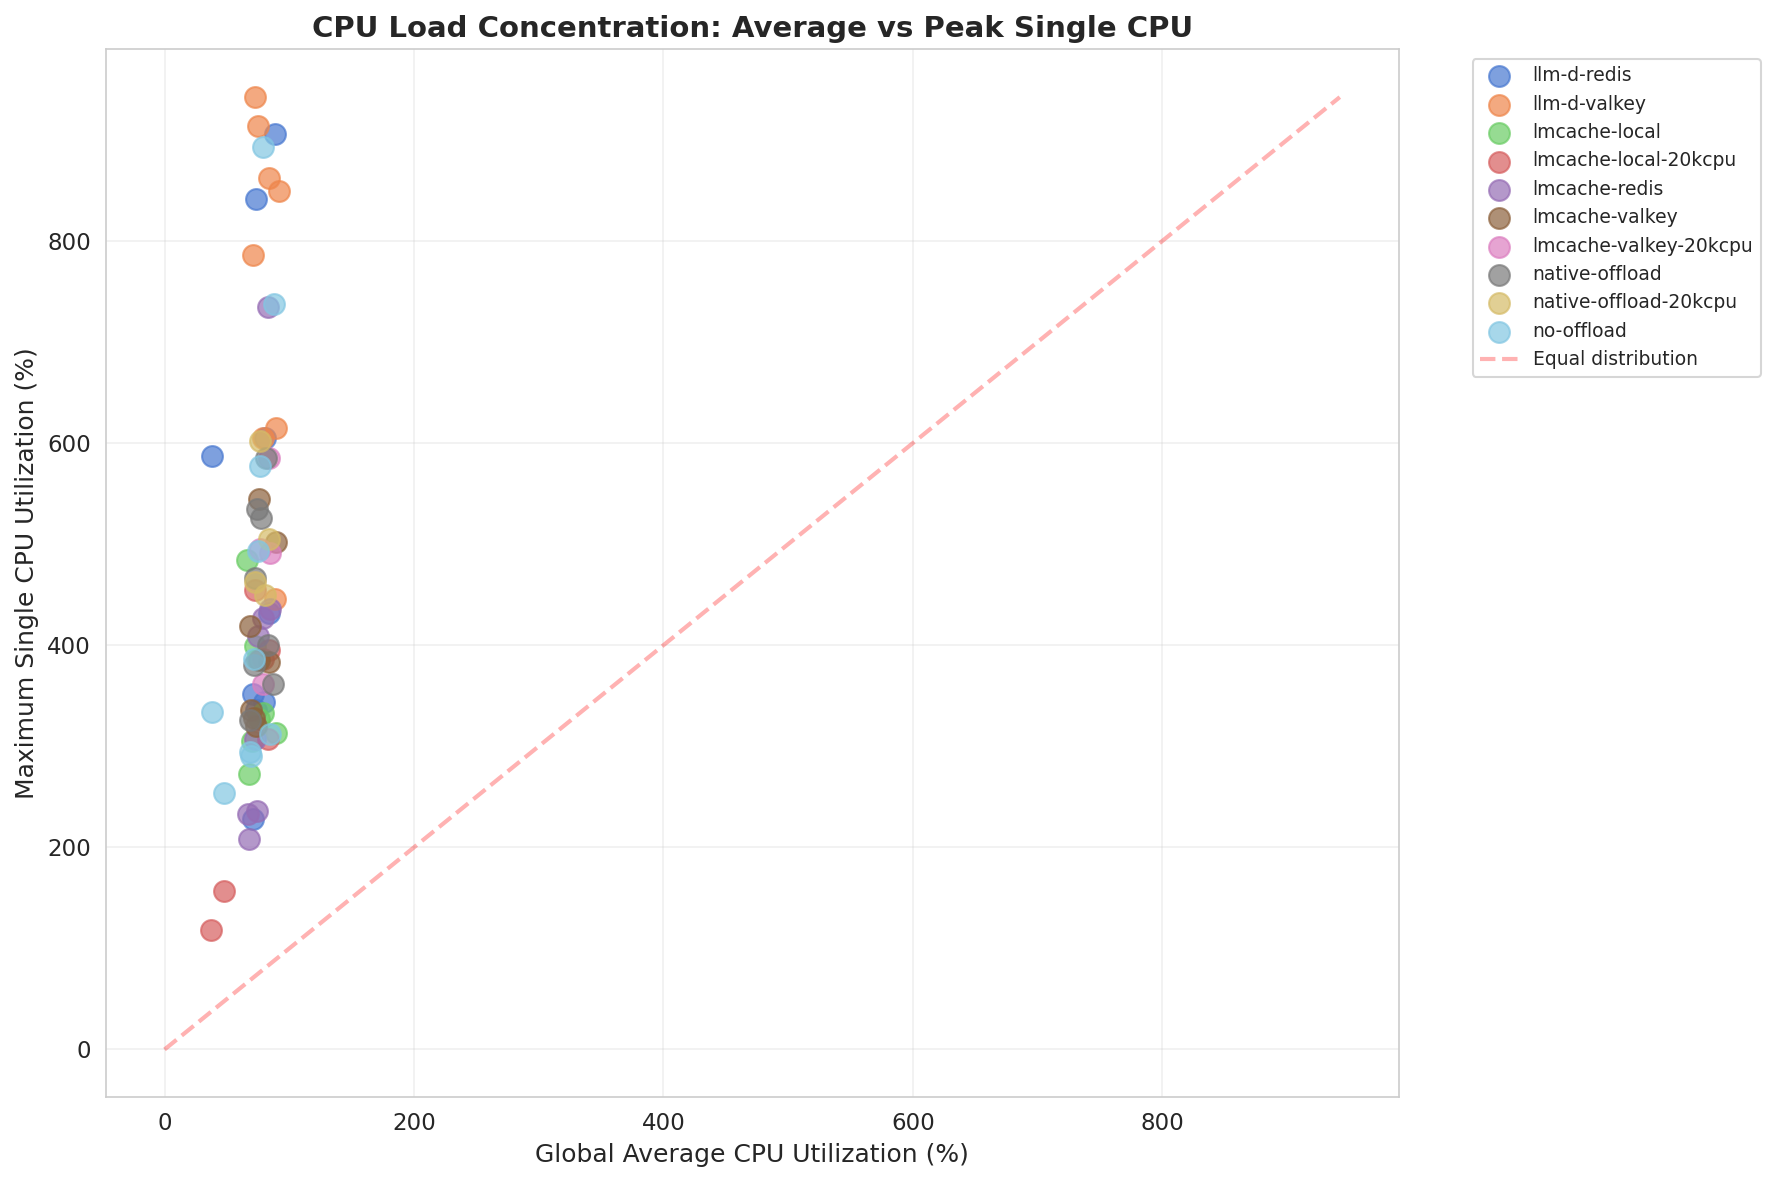
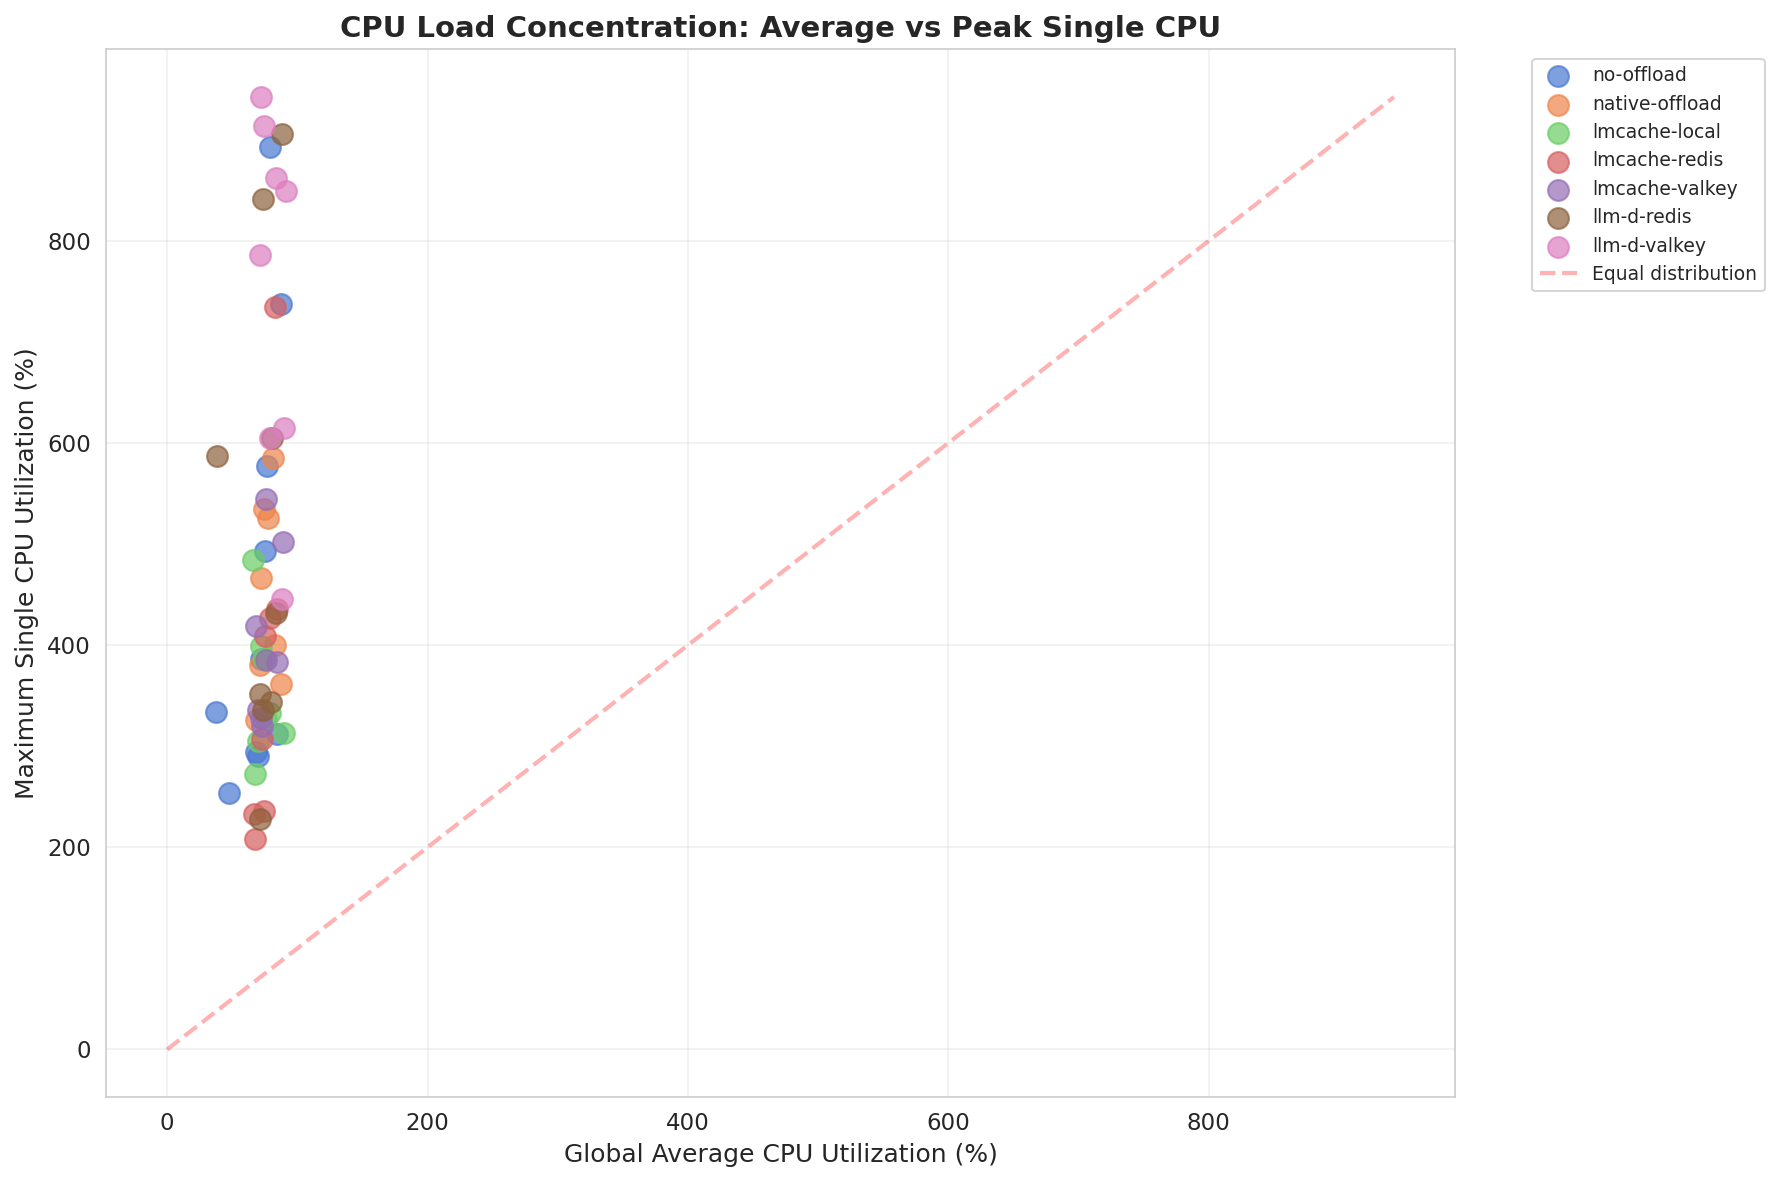
Add CPU heatmap, update the summary section

diff --git a/llm-d-kvcache-offload-eval/scripts/create-pcp-visualizations.py b/llm-d-kvcache-offload-eval/scripts/create-pcp-visualizations.py
@@ -20,6 +20,17 @@ ANALYSIS_DIR = Path('analysis')
 # Model ordering
 MODEL_ORDER = ['Qwen3-0.6B', 'Qwen3-8B', 'Qwen3-14B', 'Qwen3-32B-AWQ']
 
+# Scenario ordering (consistent with comprehensive-analysis.py)
+SCENARIO_ORDER = [
+    'no-offload',
+    'native-offload',
+    'lmcache-local',
+    'lmcache-redis',
+    'lmcache-valkey',
+    'llm-d-redis',
+    'llm-d-valkey'
+]
+
 def load_data():
     """Load PCP metrics and GuideLLM complete metrics."""
     pcp = pd.read_csv(ANALYSIS_DIR / 'pcp_metrics_peak.csv')
@@ -43,9 +54,9 @@ def plot_gpu_util_vs_throughput(df):
     """Plot GPU utilization vs output token throughput."""
     fig, ax = plt.subplots(figsize=(12, 7))
 
-    # Group by scenario for coloring
-    scenarios = df['scenario'].unique()
-    colors = sns.color_palette("husl", len(scenarios))
+    # Use consistent scenario ordering
+    scenarios = [s for s in SCENARIO_ORDER if s in df['scenario'].values]
+    colors = sns.color_palette("muted", len(scenarios))
 
     for scenario, color in zip(scenarios, colors):
         scenario_df = df[df['scenario'] == scenario]
@@ -81,7 +92,8 @@ def plot_kv_cache_usage_by_scenario(df):
         aggfunc='mean'
     )
 
-    # Reorder columns by model order
+    # Reorder rows by scenario order and columns by model order
+    pivot = pivot.reindex([s for s in SCENARIO_ORDER if s in pivot.index])
     pivot = pivot[[col for col in MODEL_ORDER if col in pivot.columns]]
 
     # Plot with custom colors
@@ -111,7 +123,8 @@ def plot_memory_usage_comparison(df):
         aggfunc='mean'
     )
 
-    # Reorder columns by model order
+    # Reorder rows by scenario order and columns by model order
+    pivot = pivot.reindex([s for s in SCENARIO_ORDER if s in pivot.index])
     pivot = pivot[[col for col in MODEL_ORDER if col in pivot.columns]]
 
     # Plot with custom colors
@@ -141,7 +154,8 @@ def plot_request_queue_patterns(df):
         aggfunc='mean'
     )
 
-    # Reorder columns by model order
+    # Reorder rows by scenario order and columns by model order
+    pivot_running = pivot_running.reindex([s for s in SCENARIO_ORDER if s in pivot_running.index])
     pivot_running = pivot_running[[col for col in MODEL_ORDER if col in pivot_running.columns]]
 
     # Plot with custom colors
@@ -161,7 +175,8 @@ def plot_request_queue_patterns(df):
         aggfunc='mean'
     )
 
-    # Reorder columns by model order
+    # Reorder rows by scenario order and columns by model order
+    pivot_waiting = pivot_waiting.reindex([s for s in SCENARIO_ORDER if s in pivot_waiting.index])
     pivot_waiting = pivot_waiting[[col for col in MODEL_ORDER if col in pivot_waiting.columns]]
 
     # Plot with custom colors
@@ -193,7 +208,8 @@ def plot_prefix_cache_effectiveness(df):
         aggfunc='mean'
     )
 
-    # Reorder columns by model order
+    # Reorder rows by scenario order and columns by model order
+    pivot = pivot.reindex([s for s in SCENARIO_ORDER if s in pivot.index])
     pivot = pivot[[col for col in MODEL_ORDER if col in pivot.columns]]
 
     # Plot with custom colors

diff --git a/llm-d-kvcache-offload-eval/scripts/visualize-percpu-saturation.py b/llm-d-kvcache-offload-eval/scripts/visualize-percpu-saturation.py
@@ -17,6 +17,17 @@ plt.rcParams['font.size'] = 11
 
 ANALYSIS_DIR = Path('analysis')
 
+# Scenario ordering (consistent with comprehensive-analysis.py)
+SCENARIO_ORDER = [
+    'no-offload',
+    'native-offload',
+    'lmcache-local',
+    'lmcache-redis',
+    'lmcache-valkey',
+    'llm-d-redis',
+    'llm-d-valkey'
+]
+
 def load_data():
     """Load per-CPU analysis data."""
     return pd.read_csv(ANALYSIS_DIR / 'percpu_analysis.csv')
@@ -29,7 +40,10 @@ def plot_saturated_cpus_by_scenario(df):
     scenario_summary = df.groupby('scenario').agg({
         'saturated_cpus_user': 'mean',
         'global_mean_user': 'mean'
-    }).sort_values('saturated_cpus_user', ascending=False)
+    })
+
+    # Reorder by consistent scenario ordering
+    scenario_summary = scenario_summary.reindex([s for s in SCENARIO_ORDER if s in scenario_summary.index])
 
     x = np.arange(len(scenario_summary))
     width = 0.35
@@ -57,8 +71,8 @@ def plot_cpu_load_distribution(df):
     """Box plot showing CPU load distribution (std dev and range)."""
     fig, (ax1, ax2) = plt.subplots(1, 2, figsize=(16, 7))
 
-    # Group by scenario
-    scenario_order = df.groupby('scenario')['cpu_stdev'].mean().sort_values(ascending=False).index
+    # Use consistent scenario ordering
+    scenario_order = [s for s in SCENARIO_ORDER if s in df['scenario'].values]
 
     # Standard deviation
     data_stdev = [df[df['scenario'] == s]['cpu_stdev'].values for s in scenario_order]
@@ -95,17 +109,19 @@ def plot_avg_vs_max_cpu(df):
     """Scatter plot showing average CPU vs max CPU utilization."""
     fig, ax = plt.subplots(figsize=(12, 8))
 
-    # Group by scenario
-    scenarios = sorted(df['scenario'].unique())
+    # Use consistent scenario ordering
+    scenarios = [s for s in SCENARIO_ORDER if s in df['scenario'].values]
+    colors = sns.color_palette("muted", len(scenarios))
 
-    for scenario in scenarios:
+    for scenario, color in zip(scenarios, colors):
         scenario_df = df[df['scenario'] == scenario]
         ax.scatter(
             scenario_df['global_mean_user'],
             scenario_df['max_cpu_mean_user'],
             label=scenario,
             alpha=0.7,
-            s=100
+            s=100,
+            color=color
         )
 
     # Add diagonal reference line (where avg = max)
@@ -134,6 +150,9 @@ def plot_saturation_heatmap(df):
     metric_labels = ['Saturated CPUs', 'Max CPU %', 'Load Std Dev', 'Load Range']
 
     summary = df.groupby('scenario')[metrics].mean()
+
+    # Reorder by consistent scenario ordering
+    summary = summary.reindex([s for s in SCENARIO_ORDER if s in summary.index])
 
     # Normalize for heatmap (scale each metric to 0-1)
     summary_norm = summary.copy()

diff --git a/llm-d-kvcache-offload-eval/REPORT.md b/llm-d-kvcache-offload-eval/REPORT.md
@@ -2,25 +2,29 @@
 
 ## Summary
 
-This report presents a comprehensive performance evaluation of KV-cache management strategies in the llm-d inference serving system. Seven configurations were tested across four model sizes (Qwen3-0.6B, Qwen3-8B, Qwen3-14B, Qwen3-32B-AWQ) using high-concurrency workloads with tensor parallelism across 2x NVIDIA L40S GPUs.
+This report presents a comprehensive performance evaluation of KV-cache management strategies in the llm-d inference serving system. Seven configurations were tested across four model sizes (Qwen3-0.6B, Qwen3-8B, Qwen3-14B, Qwen3-32B-AWQ) using high-concurrency workloads with tensor parallelism across 2x NVIDIA L40S GPUs. Performance Co-Pilot (PCP) metrics provide system-level validation of throughput results.
 
 The evaluation addresses two areas:
 
 1. **llm-d EPP distributed KV-block indexing overhead**: Comparing baseline GPU-only operation against Redis and Valkey-backed distributed indexing for cache-aware request routing
 2. **CPU KV-cache offload strategies**: Comparing vLLM native offloading against LMCache (local CPU and distributed Redis/Valkey backends)
 
-**Findings:**
+**Primary Findings:**
 
 - **llm-d EPP distributed indexing achieves performance parity** with baseline (within ±2% for most models)
-- **14B model optimization**: The 14B model shows +10-13% throughput improvement with CPU offload (both native and LMCache), while all other models show degradation
-- **vLLM native offloading shows clear degradation** for small models (-29% to -36% for 0.6B/8B)
-- **LMCache distributed caching** performs competitively for the 14B model but shows degradation for other sizes
-- **Redis vs Valkey backends perform identically** across all configurations, providing deployment flexibility
-- **Model size impacts offload effectiveness**: Different models show significantly different responses to CPU offload strategies
+- **CPU memory capacity is the dominant factor** in offload effectiveness: 32B-AWQ model shifted from -12.7% degradation to +11.9% improvement when CPU blocks doubled from 10K to 20K
+- **Model size determines optimal configuration**: larger models (14B/32B-AWQ) benefit from CPU offload (+12-17% with adequate memory), while smaller models (0.6B/8B) show degradation
+- **vLLM native offloading underperforms LMCache** across all model sizes, showing -29% to -36% degradation for small models
 
-The llm-d EPP distributed KV-block indexing demonstrates negligible overhead for cache-aware request routing in multi-pod deployments. However, CPU offload strategies show highly model-dependent performance characteristics, with the 14B model representing an optimal size where offload benefits outweigh overhead.
+**System-Level Insights:**
 
-**Important**: These results are specific to the test hardware configuration (2x NVIDIA L40S GPUs, 32 vCPUs, limited CPU memory for offload). Different GPU types, CPU memory capacity, and memory bandwidth characteristics will impact offload effectiveness. The 14B model's performance improvement with CPU offload is expected to also occur with different model sizes and alternative hardware configurations.
+- **Per-CPU analysis reveals hidden saturation**: Despite 4-10% average CPU utilization, 9-14 individual CPUs averaged >80% saturation across scenarios, with severe load hotspotting
+- **CPU offload increases CPU saturation**: Offload scenarios show 11-14 saturated CPUs vs 9.5 for baseline, consistent with CPU-GPU transfer overhead
+- **Prefix cache effectiveness varies widely**: Hit rates range from 2-61% depending on concurrency and model size, with effectiveness increasing substantially at higher concurrency
+
+The llm-d EPP distributed KV-block indexing demonstrates negligible overhead for cache-aware request routing in multi-pod deployments. CPU offload strategies show highly model-dependent and memory-capacity-dependent performance characteristics, with proper CPU memory provisioning being critical for realizing offload benefits.
+
+**Note**: These results are specific to the test hardware configuration (2x NVIDIA L40S GPUs, 48 vCPUs, variable CPU memory for offload). Different GPU types, CPU memory capacity, and memory bandwidth characteristics will significantly impact offload effectiveness. The optimal model size for CPU offload is expected to shift with alternative hardware configurations.
 
 ---
 
@@ -322,6 +326,9 @@ All scenarios show individual CPUs hitting >95% utilization during benchmark exe
 
 ![CPU Offload Impact on Saturation](analysis/percpu_offload_impact.png)
 *Figure: CPU saturation comparison - offload scenarios show higher CPU saturation than baseline*
+
+![CPU Saturation Heatmap](analysis/percpu_saturation_heatmap.png)
+*Figure: Comprehensive view of CPU saturation patterns - llm-d-valkey shows highest severity across all metrics, while lmcache-local shows most saturated CPUs*
 
 **System Pressure Metrics:**
 The test system (RHEL 9.6, kernel 5.14) supports Pressure Stall Information (PSI) metrics, but no pressure events were recorded during benchmark execution:
@@ -638,7 +645,6 @@ All benchmarks were executed using GuideLLM v0.5.3 with identical parameters acr
 - Profile: concurrent
 - Duration: 120 seconds per concurrency level
 - Sample requests: 4000
-- Random seed: 889 (for reproducibility)
 - Prefer response metrics: true
 
 ### Metrics Collection
